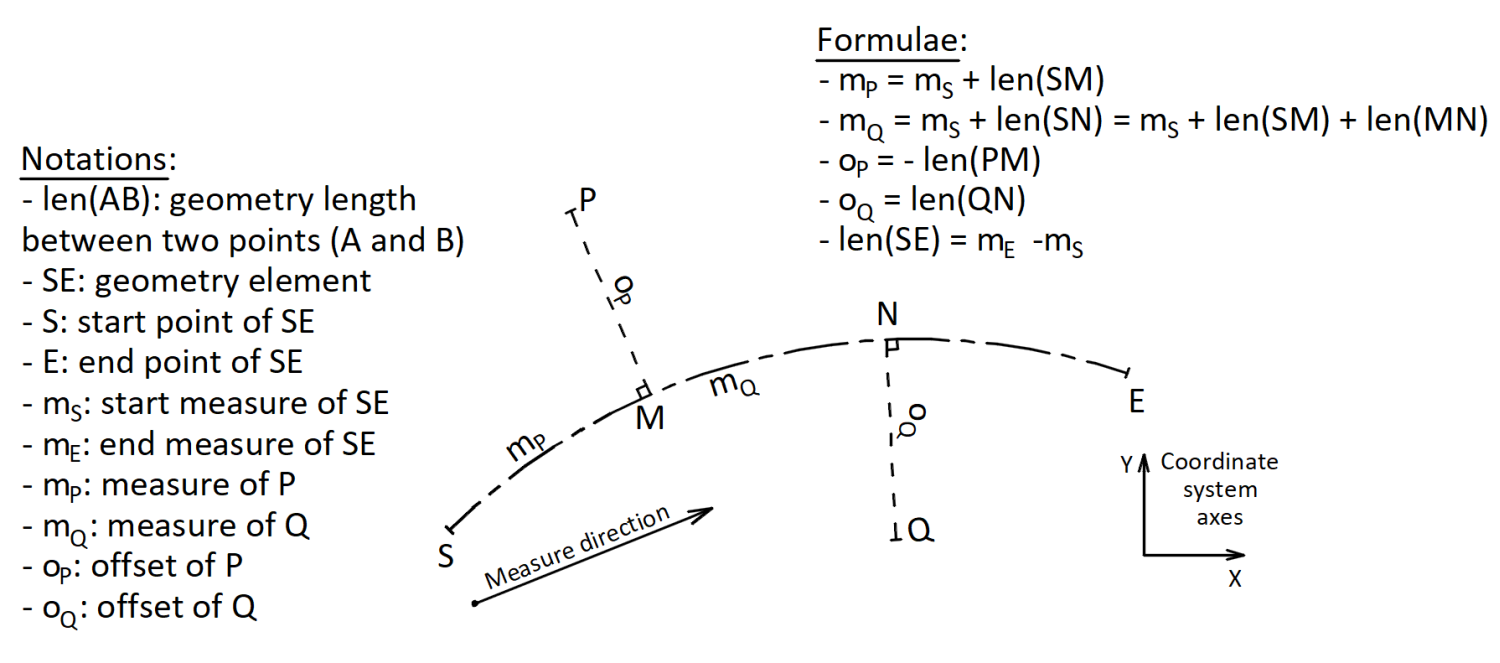
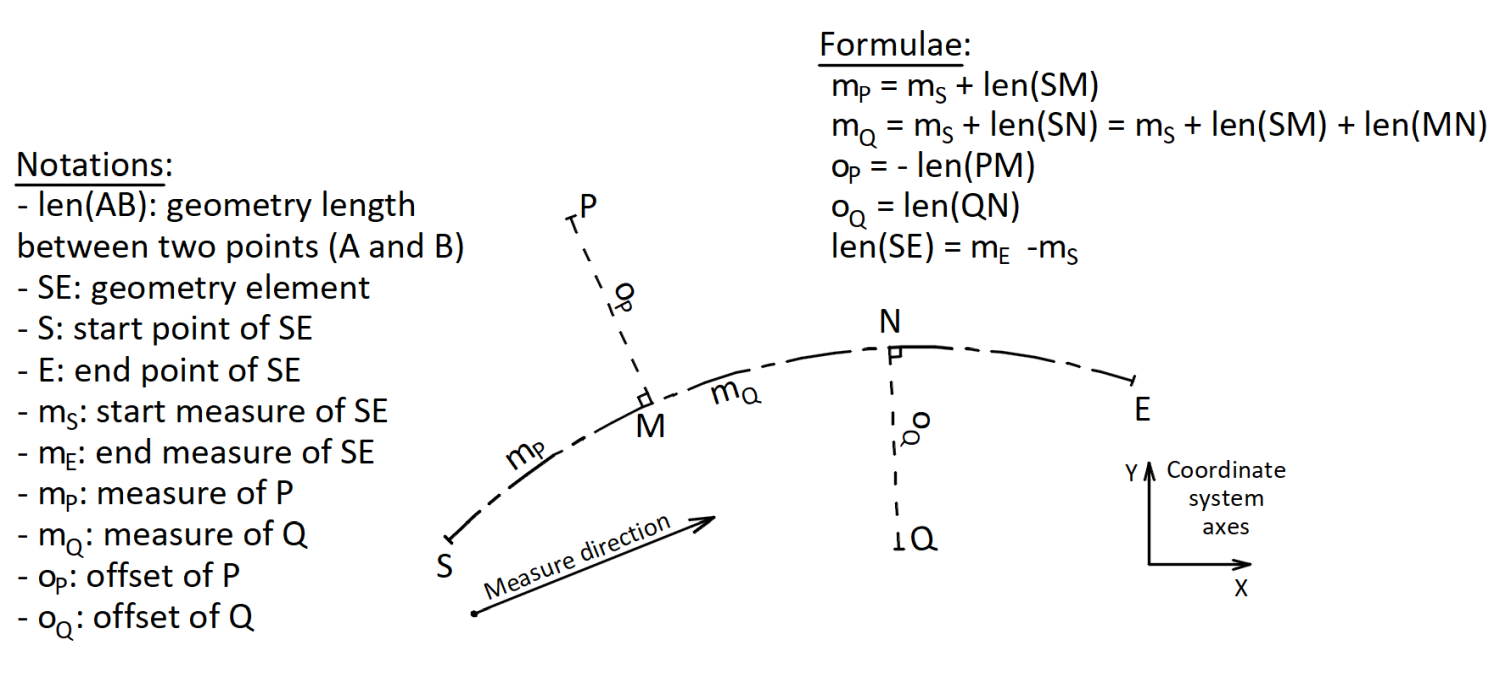
doc for udf_cl updated with figure

diff --git a/README.md b/README.md
@@ -8,6 +8,7 @@ To be written
 
 # Documentation
 
+# Documentation
 ## General Notes
 - The definitions, notations and concepts used by this library should be understood in the context of this library only.
 - A point represents a location and is defined by coordinates XY(Z), where X is the *abscissa* and Y is the *ordinate* 
@@ -15,26 +16,27 @@ To be written
 
 
 ## Centerline Functions
-
 ### Terms and Concepts
-
 A *Centerline*  is an imaginary line along the center of a road, railway, culvert, etc. It's made of one or more geometry elements of the following type: line segment, circular arc, Cornu/Euler spiral.
 A geometry element has a starting point and a ending point defined.
 The *measure* of a point along a geometry element is the distance measured from the start (or the end if the element is defined as *reversed*) to that point.
 The *offset* of a point along a geometry element is the perpendicular distance between the point and the element. Offset values are negative if the points are on the left hand side (LHS) along the geometry element and positive if they are on the right hand side (RHS).
 
-### Summary
+The geometry element, measure, offset and their properties are shown in the figure below.
+![](https://github.com/pastevalue/topoXL/blob/develop/docs/udf_cl/geom_elem.png)
 
+
+### Summary
 *Centerline* referencing functions of this library deal with three scenarios:
 
-- for a given *centerline* and *Point*, find the *measure* and the *offset*
-- for a given *centerline*, *measure* and *offset*, find the *Point*
-- for a given *centerline* and coordinate (X/Y), find the other coordinate (Y/X)
+- for a given *centerline* and *Point*, calculate the *measure* and the *offset*
+- for a given *centerline*, *measure* and *offset*, calculate the *Point*
+- for a given *centerline* and coordinate (X/Y), calculate the other coordinate (Y/X)
+
 
 ### *clPntByMeasOffset* - Centerline Point by Measure and Offset
 
 #### Parameters
-
 - *clName* (text): the name of the reference *centerline* used for computation
 - *measure* (number): the *measure* value at which the output point coordinates will be computed
 - *offset* (number): the *offset* value at which the output point coordinates will be computed
@@ -44,35 +46,27 @@ The *offset* of a point along a geometry element is the perpendicular distance b
 Result type: *Excel Array* – two numbers
 
 Returns the coordinates of the point calculated at the given *measure* and *offset*
-
 #### Error(s) returned:
-
 - *#N/A*: no *centerline* with the name *clName* was found
 - *#NUM!*: *measure* value is out of range, that is, the *centerline* has no element such that *start measure <= measure <= end measure*
 
 ### *clMeasOffsetOfPnt* - Centerline Measure and Offset of Point
-
 #### Parameters
-
 - *clName* (text): the name of the reference *centerline* used for computation
 - *X* (number): the X value of the input location
 - *Y* (number): the Y value of the input location
 
 #### Result
-
 Result type: *Excel Array* – two numbers
 
 Returns the centerline reference, *measure* and *offset*, of the given coordinates
 
 #### Error(s) returned:
-
 - *#N/A*: no *centerline* with the name *clName* was found
 - *#NUM!*: coordinates not covered by the *centerline*, that is, the *centerline* has no element such that a perpendicular from the given coordinates to one of its elements exists
 
 ### *clYatX* - Centerline Y Value at X Value
-
 #### Parameters
-
 - *clName* (text): the name of the reference *centerline* used for computation
 - *X* (number): the X value for which Y value must be computed
 
@@ -83,14 +77,11 @@ Result type: number
 Returns the Y value computed at the given X value. In the scenario of multiple *centerline* elements which satisfy the condition *Xmin <= X <= Xmax*, the first one found is used for computation.
 
 #### Error(s) returned:
-
 - *#N/A*: no centerline with the name *clName* was found
 - *#NUM!*: X value not covered by the *centerline*, that is, the *centerline* has no element such that *Xmin <= X <= Xmax*
 
 ### *clXatY* - Centerline X Value at Y Value
-
 #### Parameters
-
 - *clName* (text): the name of the reference *centerline* used for computation
 - *Y* (number): the Y value for which X value must be computed
 
@@ -101,7 +92,8 @@ Result type: number
 Returns the X value computed at the given Y value. In the scenario of multiple *centerline* elements which satisfy the condition *Ymin <= Y <= Ymax*, the first one found is used for computation.
 
 #### Error(s) returned:
-
 - *#N/A*: no centerline with the name *clName* was found
 - *#NUM!*: Y value not covered by the *centerline*, that is, the *centerline* has no element such that *Ymin <= Y <= Ymax*
+
+
 
